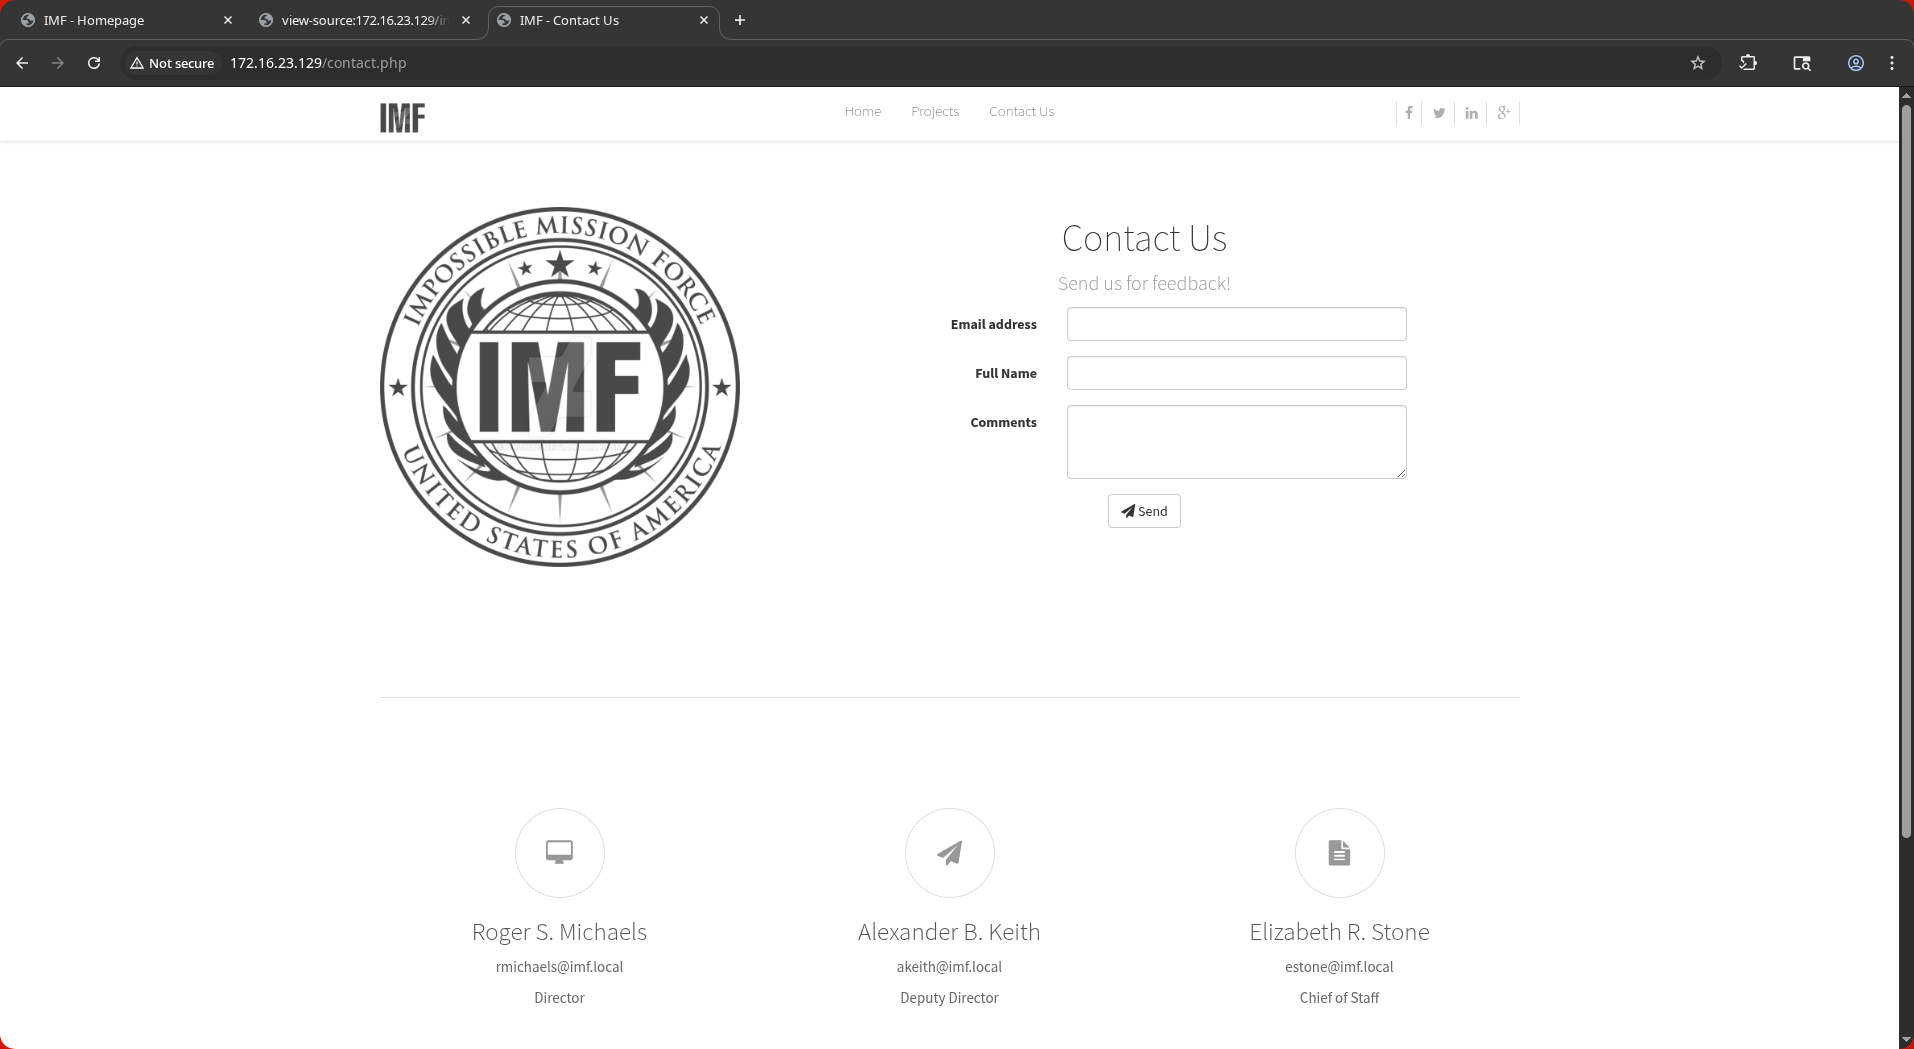
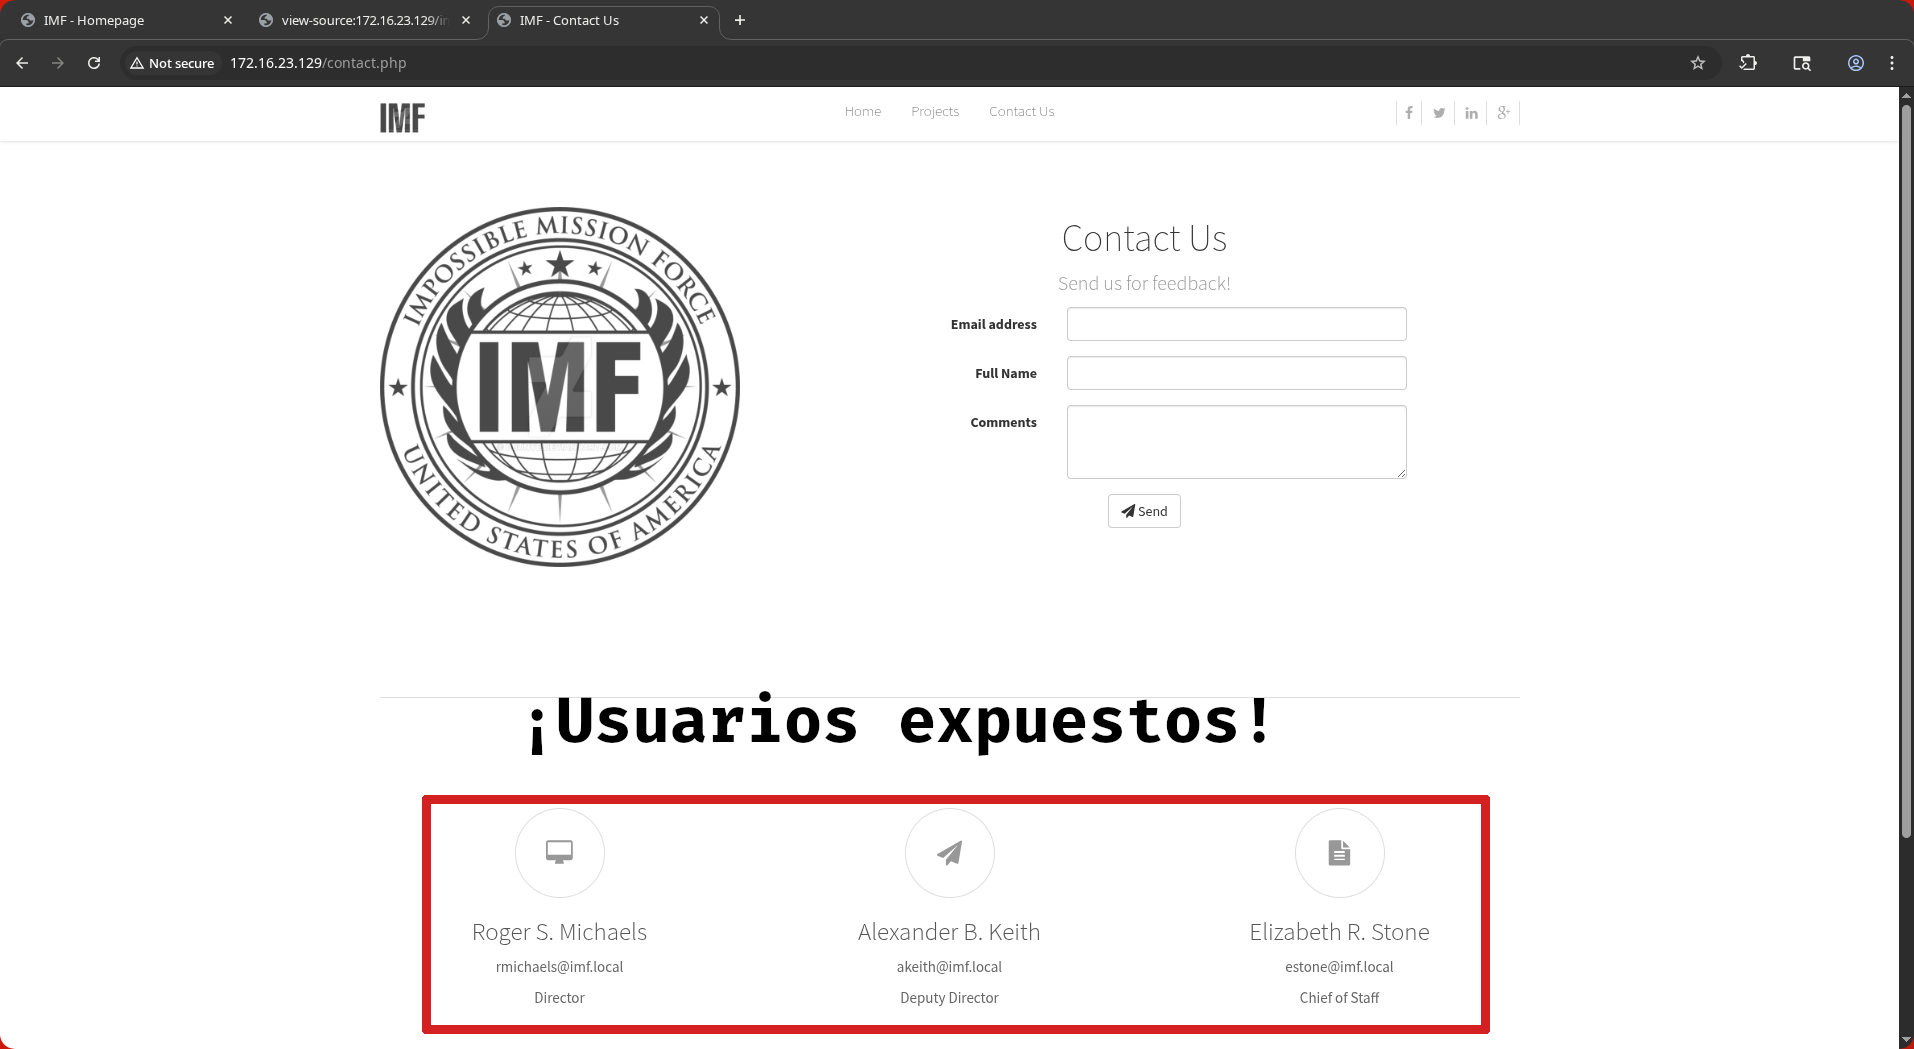
vault backup: 2025-11-21 03:33:15

Changed region(s): [[0.2158, 0.6711, 0.8015, 1.0]]

diff --git a/content/_WRITEUPS/CTFs/IMF.md b/content/_WRITEUPS/CTFs/IMF.md
@@ -1,13 +1,13 @@
 ---
-title: "VulnHub: IMF: 1"
+title: "VulnHub: IMF"
 date: 2025-10-31
 tags:
   - writeup
   - vulnhub
   - sqli
-  - ssh
   - privilege-escalation
   - web-exploitation
+  - BoF
 related:
   - "[[SQLi-Manual]]"
   - "[[Git-Reconnaissance]]"
@@ -16,50 +16,45 @@ related:
 references:
   - https://www.vulnhub.com/entry/imf-1,162/
 ---
-# CTF: IMF: 1
-
-PORTADA
-
->[!INFO] Información General  
->Este documento contiene un writeup detallado de cómo comprometer la máquina IMF en VulnHub. Se abordan técnicas de enumeración, explotación y escalada de privilegios para capturar las flags.
-
+![[CTFIMF.Cover.png]]
+# Información General  
+>Este documento contiene un writeup detallado de cómo comprometer la máquina IMF en VulnHub. Se abordan las técnicas: SQLi Boolean Blind y Buffer Over Flow. Además, creamos un pequeño script de Python para automatización de tareas.
 ---
-
-## Objetivo
-
+## Objetivos
 - Comprometer la máquina virtual [IMF: 1](https://www.vulnhub.com/entry/imf-1,162/).
 - Obtener acceso inicial mediante enumeración web.
 - Escalar privilegios hasta root mediante abuso de servicios vulnerables.
 - Capturar las 5 flags.
+## Herramientas y Comandos Usados
 
-## Herramientas y Comandos Recomendados
-
-| Herramienta | Función principal                               |
-| ----------- | ---------------------------------------------- |
-| arp-scan    | Descubre hosts en la red.                       |
+| Herramienta | Función principal                             |
+| ----------- | --------------------------------------------- |
+| arp-scan    | Descubre hosts en la red.                     |
 | nmap        | Escaneo y enumeración de puertos y servicios. |
-| wget        | Descarga de archivos desde la web.              |
-| git         | Control de versiones de código.                 |
-| Burp Suite  | Análisis y pruebas de tráfico web.              |
-| curl        | Transferencia de datos y pruebas HTTP.          |
-| netcat      | Utilidad multipropósito de red.                 |
-| ssh         | Acceso remoto seguro por consola.               |
-| htop        | Monitorización avanzada de procesos.            |
-| netstat     | Revisión de conexiones y puertos activos.       |
+| Burp Suite  | Análisis y pruebas de tráfico web.            |
+| curl        | Transferencia de datos y pruebas HTTP.        |
+| TCPing      |                                               |
+| netcat      | Utilidad multipropósito de red.               |
+| ssh         | Acceso remoto seguro por consola.             |
+| htop        | Monitorización avanzada de procesos.          |
+| netstat     | Revisión de conexiones y puertos activos.     |
+|             |                                               |
 
 > [!TIP] Preparativos Personales:  
 > Esta máquina vulnerable fue ejecutada bajo un entorno virtualizado usando **VMware Workstation** sobre un sistema operativo **Arch Linux**. Todas las herramientas fueron descargadas e instaladas desde los repositorios oficiales o desde la **AUR**.
-
 ---
-
-# Informe General
+# Solución General
 
 > [!Abstract] Resumen Técnico  
-> Se obtuvo acceso inicial mediante técnicas de enumeración y explotación en la máquina IMF.
+> 
 
-## I. Reconocimiento: Fase inicial | arp-scan / tcping
+## 1. Reconocimiento:  
 
-Lo primero que debes hacer es reconocer qué máquina vas a atacar. Para ello, debes identificar la IP de la máquina víctima.
+Explicar porque es iomportante la fase de reconocimiento y en que consiste!!!!
+
+### 1.1 Fase Inicial | arp-scan y tcping
+
+Lo primero que hago es reconocer qué máquina voy a atacar. Para ello, debo identificar la IP de la máquina víctima, esto se hace con ayuda de la herramienta `arp-scan`
 
 Comando utilizado:
 ```
@@ -72,7 +67,7 @@ Parámetros:
 - `--localnet`: Indica escaneo de toda la red local
 
 ![[Pasted image 20251031173658.png]]
-	El escaneo identifica la máquina objetivo en "`172.16.23.129`" dentro de mi red `vmnet1`.
+	Este escaneo me identifica la máquina objetivo en "`172.16.23.129`" dentro de mi red `vmnet1`.
 
 Identificamos que hay una máquina conectada, por lo que podemos ejecutar el comando ping para verificar conectividad con la máquina:
 
@@ -84,17 +79,15 @@ ping 172.16.23.129
 
 El comando "ping" usa el protocolo ICMP (Internet Control Message Protocol), que envía paquetes de eco para saber si un dispositivo está accesible en la red. Sin embargo, muchos sistemas o routers pueden bloquear estos paquetes ICMP por seguridad, por lo que "ping" puede fallar aunque el dispositivo esté activo. 
 
-Al no obtener respuesta con ICMP, probaremos la herramienta [tcping](https://github.com/cloverstd/tcping) para verificar la conexión mediante el protocolo TCP. tcping usa TCP para intentar establecer una conexión directa a un puerto específico en la máquina destino (por ejemplo, puerto 80, 443, etc.). Esto permite verificar si un servicio en ese puerto está disponible y funcionando, sin depender de que ICMP esté permitido.
+Al no obtener respuesta con ICMP, probaremos la herramienta [tcping](https://github.com/cloverstd/tcping) para verificar la conexión mediante el protocolo TCP. `tcping` usa TCP para intentar establecer una conexión directa a un puerto específico en la máquina destino (por ejemplo, puerto 80, 443, etc.). Esto permite verificar si un servicio en ese puerto está disponible y funcionando, sin depender de que ICMP esté permitido.
 
 Una vez compilada, ejecutamos:
 ```
 ./tcping 172.16.23.129
 ```
 ![[Pasted image 20251031175656.png]]
-	Si podemos confirmar conexión por medio de la herramienta tcping.
-
-
-### 1.1 Reconocimiento: Escaneo de puerto | nMap
+	Confirmamos conexión con `172.16.23.129` por medio de la herramienta tcping.
+### 1.2 Escaneo de puerto |  nMap
 
 ```
 nmap -p- --open -sS 172.16.23.129 -T4 -n -vvv -Pn -oA SYNscan 
@@ -112,9 +105,9 @@ Parámetros:
 
 ![[Pasted image 20251031182855.png]]
 
-### Reconocimiento: Scripts de Reconocimiento | nmap
+### 1.3 Escaneo de servicios | nmap
 
-Ya que sabemos que tenemos el puerto 80 libre es nuestro momento de utilizar un conjunto de scripts de reconocimiento que  tiene nmap que nos permitirá identificar exactamente a que nos estamos enfrentando con información más a detalle
+Ya que sabemos que tenemos el puerto 80 libre es nuestro momento de utilizar un conjunto de scripts de reconocimiento que tiene nmap que nos permitirá identificar exactamente a que nos estamos enfrentando con información más a detalle
 
 Comando utilizado:
 ```
@@ -132,75 +125,77 @@ Parámetros:
 - `-oA PORTscan`: Exporta la salida en tres formatos simultáneamente (normal, XML y grepable) usando el prefijo de archivo "nmap".
 
 ![[Pasted image 20251031194320.png]]
+	Equipo con puerto 80/tcp abierto, servicio Apache httpd  2.4.18 corriendo en maquina  Ubuntu | Aplicación web: IMF
 
-> [!INFO] Información  
->  Equipo con puerto 80/tcp abierto, serivicio Apache httpd  2.4.18 corriendo en maquina  Ubuntu | Aplicación web: IMF 
+### 1.4 Reconocimiento Web | Puerto 80
 
-
-### Reconocimiento: Aplicativo Web: IMF | Puerto 80
-
-Introducimos la IP de la máquina como URL en nuestro navegador web. Vemos que la misma cuenta con 3 "subdominios". Home (index.php), Projects (projects.php )y Contact Us (contact.php).
+Introducimos la IP `172.16.23.129` como URL en nuestro navegador web y vemos que la misma cuenta con 3 "subdominios": 
+- Home (index.php).
+- Projects (projects.php). 
+- Contact Us (contact.php).
 
 ![[Pasted image 20251031224714.png]]
 
-#### Index.php código fuente | Control + U 
-
+#### Código Fuente | Index.php 
 ![[Pasted image 20251031230106.png]]
-	Encontramos unos archivos codeados en base64.
+	Encontramos unos archivos Javascript encriptados en base64. Esto es algo basten curioso de ver en un codigo fuente, por que juntamos todos y nos da la cadena de carácteres "`ZmxhZzJ7YVcxbVlXUnRhVzVwYzNSeVlYUnZjZz09fQ==`"
 
-Juntamos todo los caracteres 
-ZmxhZzJ7YVcxbVl
-XUnRhVzVwYzNS
-eVlYUnZjZz09fQ==
-
-ZmxhZzJ7YVcxbVlXUnRhVzVwYzNSeVlYUnZjZz09fQ==
-
+Se identifica fácil que es una cadena base64 por lo que procedemos a descriptarla con:
 ```
  echo "ZmxhZzJ7YVcxbVlXUnRhVzVwYzNSeVlYUnZjZz09fQ==" | base64 -d; echo
 ```
 
-![[Pasted image 20251031232251.png]]
-	Flag 2
-#### Pojects
+![[Pasted image 20251121015519.png]]
+	Esto nos dará como resultado: `flag2{aW1mYWRtaW5pc3RyYXRvcg==}`. Rechistosos, vamos a desencriptarla nuevamente:
+```
+echo "aW1mYWRtaW5pc3RyYXRvcg==" | base64 -d; echo
+```
+![[Pasted image 20251121022241.png]]
+	Nos nos da como respuesta la palabra "imfadministrator"
+#### Código Fuente | projects.php
 
 ![[Pasted image 20251031231054.png]]
-
-
-#### Ccntact Us
+	Acá no hay mucho que ver, parece una página con solo información relacionada a los proyectos de la aplicación web.
+#### Código Fuente | contact.php
 
 ![[Pasted image 20251031231116.png]]
+	Está página es mucho más interesante que las otras 2, por toda la cara vemos que hay tres posibles usuarios por lo que los guardemos, seguro sirven para más tarde.
 
+![[Pasted image 20251121021647.png]]
+	Además, en su codigo fuente encontramos la `flag1{YWxsdGhlZmlsZXM=}`. Vemos que también está en `base64` por lo que procedemos también a desencriptarla:
+```
+echo "YWxsdGhlZmlsZXM=" | base64 -d; echo
+```
+![[Pasted image 20251121021916.png]]
 
-![[Pasted image 20251031231606.png]]
-	obtenemos la flag 1.
+#### Recuento de Información:
 
-> [!success] Información obtenida
-> flag1{allthefiles}
-> flag2{imfadministrator}
-> 
-> Usuarios: rmichaels, akeith y estone.
+> [!success] Flags: 
+> "flag1{allthefiles}" y "flag2{imfadministrator}"
 
+> [!success] Usuarios: 
+> "Roger S. Michaels:  rmichaels@imf.local", "Alexander B. Keith:  akeith@imf.local", "Elizabeth R. Stone: estone@imf.local".
 ---
+## 2. Explotación: 
 
-# Explotación: Array Injection Authentication Bypass
+Podemos intuir que las flags son pistas para seguir con el reto, en este caso vemos que "`flag1{allthefiles}`" nos invita a revisar todos los archivos del aplicativo y "`flag2{imfadministrator}`" nos indica lo que parece ser un nombre de "ruta". 
 
-Obviamente imfadministrator es una ruta del proyecto :V 
-
+Confirmamos esto ingresando en la URL: http://172.16.23.129/imfadministrator/
 ![[Pasted image 20251101211134.png]]
+	Parece un panel de inicio de sesión administrativo. Este es el momento perfecto para probar los usuarios que habíamos encontrado anteriormente, confirmando no solo que los usuarios existen, si no que la web también el **vulnerable a enumeración**.
 
 ![[Pasted image 20251101211046.png]]
-
+	Revisando el código fuente también podemos ver que hay pista en los comentarios de la web. Parece que dejaron toda la sanitización en el traste por lo que ya mismo nos podemos a probar cosas con BurpSuite.
+### 2.1 Array Injection Authentication Bypass |  BurpSuite
 
 ![[Pasted image 20251101212005.png]]
-	`flag3{Y29udGludWVUT2Ntcw==}`
+	Con un simple "[]" en la query de login podemos ver que la web nos da acceso al panel administrativo, dándonos como premio la	`flag3{Y29udGludWVUT2Ntcw==}`, por lo que procedemos también a desencriptarla con:
+```
+	❯ echo "Y29udGludWVUT2Ntcw==" | base64 -d; echo
+```
+![[Pasted image 20251121032328.png]]
 
-Aqui hice el array injection authetication bypass
-
-Al hacer clic en CMS me lleva a:
-
-http://172.16.23.129/imfadministrator/cms.php?pagename=home
-
-SUBDOMINIO NUEVO
+También que tenemos un enlace que nos lleva a "http://172.16.23.129/imfadministrator/cms.php?pagename=home" por lo que al ingresar podemos ver el contenido del panel administrativo:
 
 ![[Pasted image 20251101213827.png]]
 
